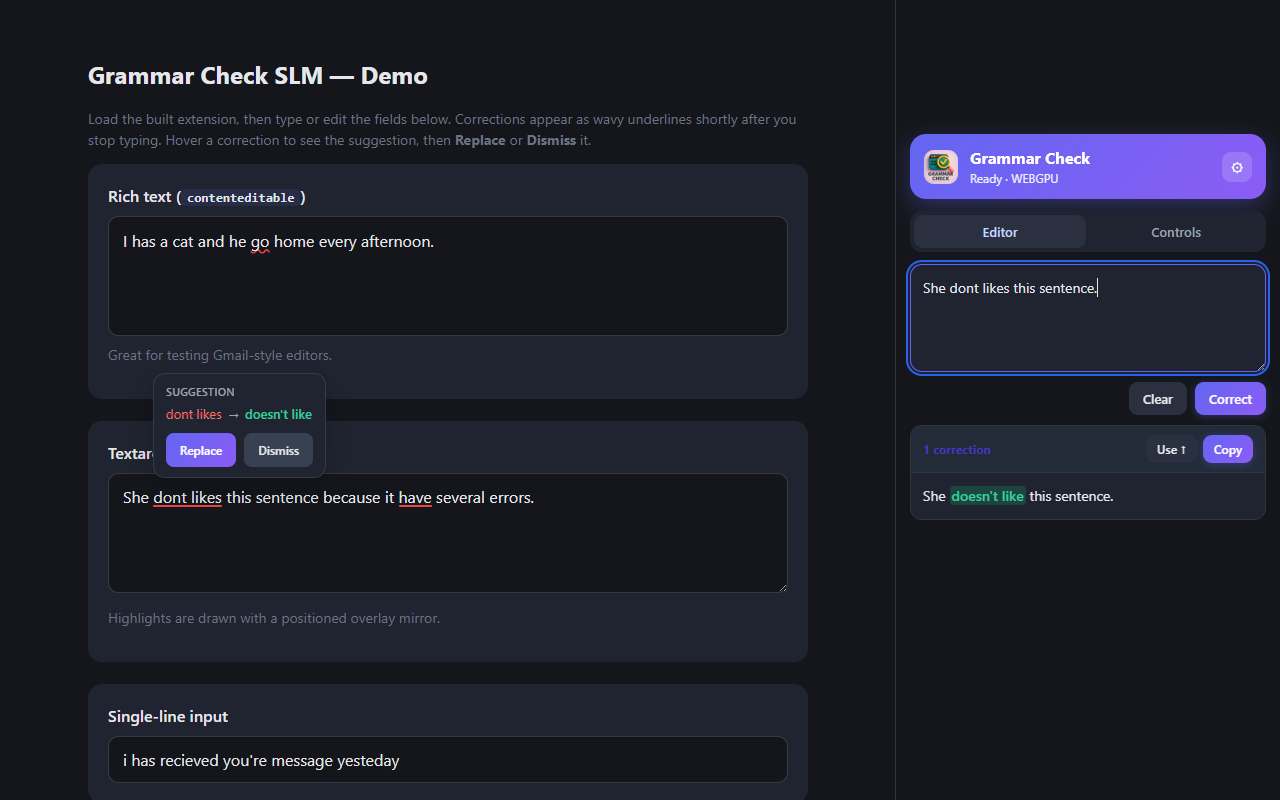
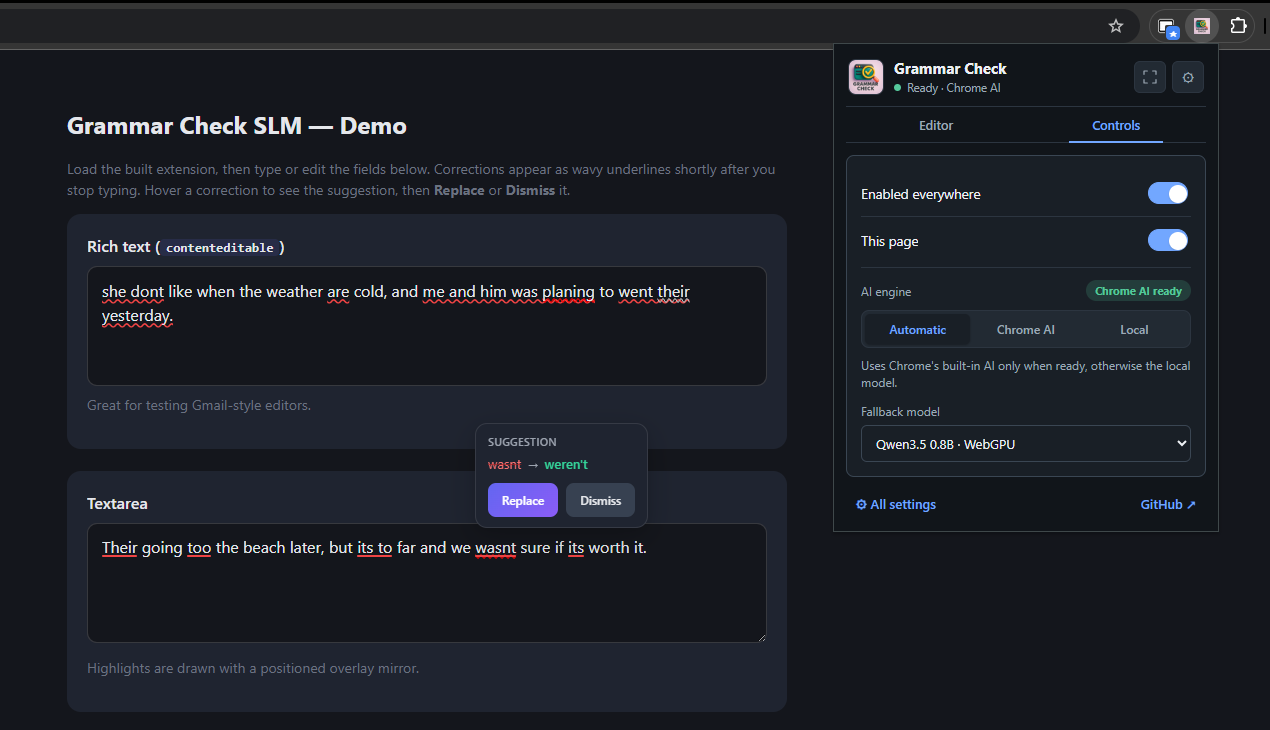
Update README

diff --git a/README.md b/README.md
@@ -1,11 +1,13 @@
 # Grammar Check SLM 🔍✍️
 
+![License: MIT](https://img.shields.io/badge/License-MIT-brightgreen)
 ![Manifest V3](https://img.shields.io/badge/Manifest-V3-4285F4)
 ![TypeScript](https://img.shields.io/badge/TypeScript-strict-3178C6)
 ![AI: 100% on-device](https://img.shields.io/badge/AI-100%25%20on--device-10B981)
-![License: MIT](https://img.shields.io/badge/License-MIT-brightgreen)
+![Chrome Web Store Version](https://img.shields.io/chrome-web-store/v/lohelopgomgjmabihgmcdpnmckjpdbhd)
 
-A privacy-first Chromium extension that fixes grammar and spelling **entirely on your device**. It
+
+A privacy-first [Chromium extension](https://chromewebstore.google.com/detail/lohelopgomgjmabihgmcdpnmckjpdbhd?utm_source=item-share-cb) that fixes grammar and spelling **entirely on your device**. It
 uses a downloaded **Qwen** model via
 [Transformers.js](https://github.com/huggingface/transformers.js) by default. Chrome's **built-in AI
 (Gemini Nano)** is available as an optional engine. Edited text is never uploaded; local model
@@ -101,6 +103,9 @@ Open the extension's **Settings** page (or the ⚙ button in the popup) to confi
 Right-click the toolbar icon or any text field to quickly toggle checking on the current site.
 Select text anywhere and right-click **“Correct grammar of …”** to correct it in place (or copy the
 result for read-only text).
+
+![Extension settings](/assets/settings.png)
+
 
 ### Engines
 